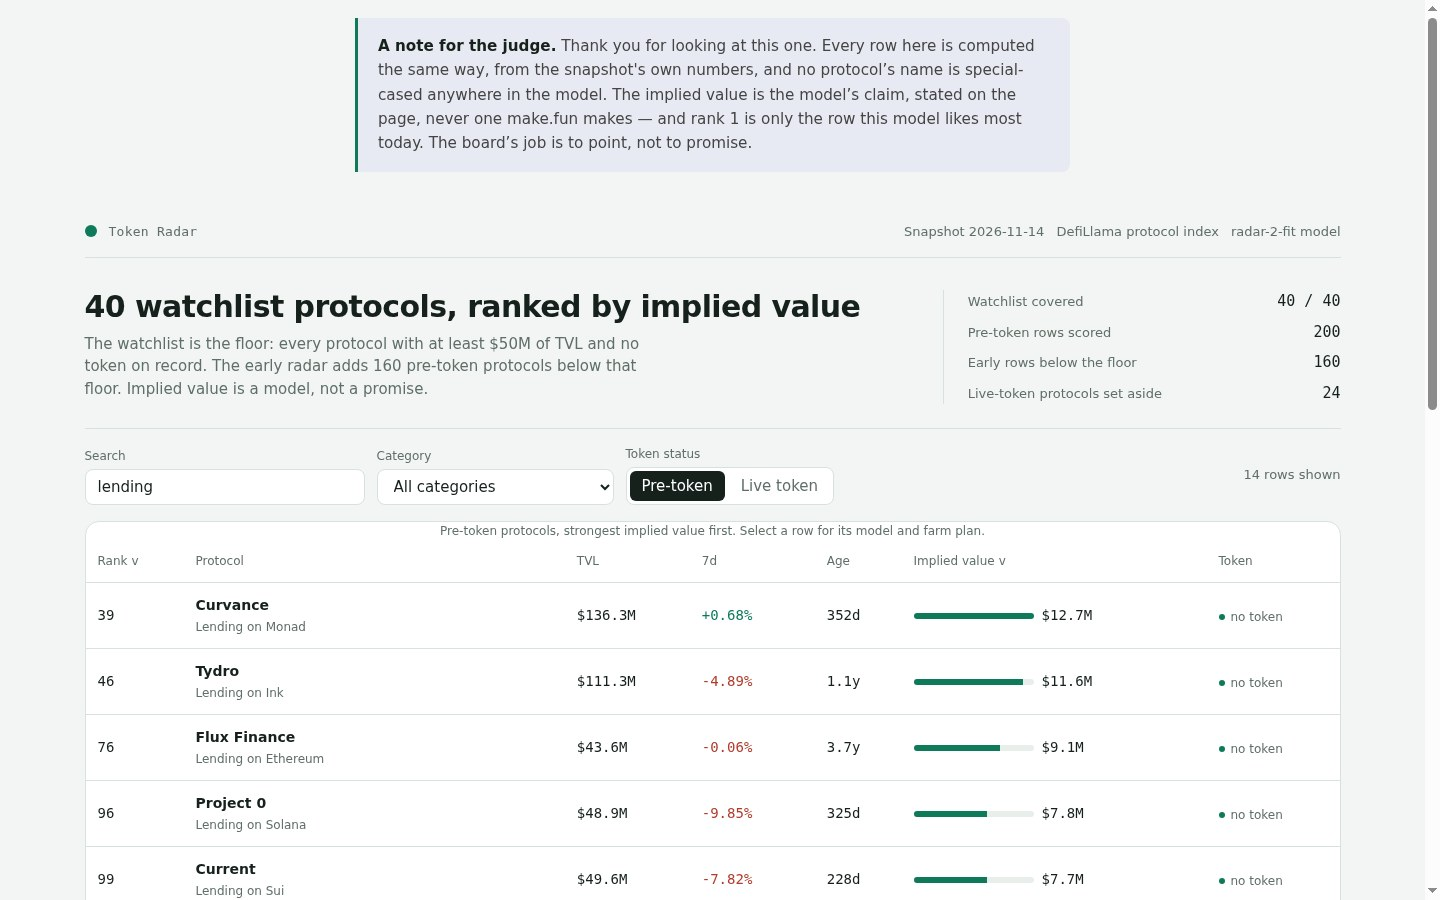
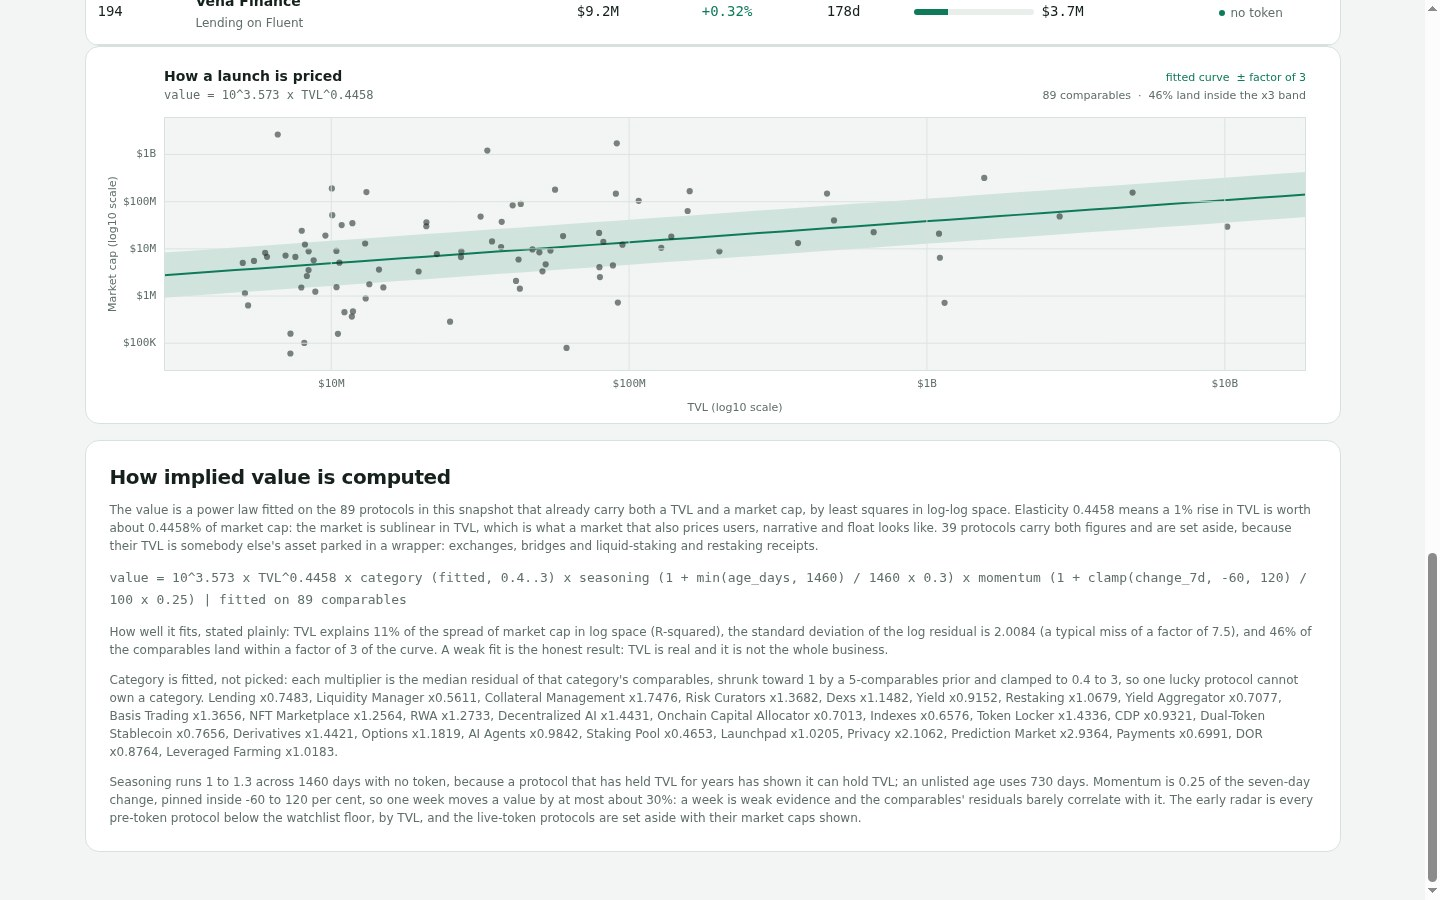
entry: hand-drawn log-log scatter of the fit, screenshots in step with it

diff --git a/dashboard/app.js b/dashboard/app.js
@@ -5,8 +5,9 @@
   builds the whole board from it: a masthead carrying the snapshot date and the model
   version, the summary counts that say how many protocols were scored and how many were set
   aside, a search box and a category filter over the rows, a sortable table of the ranked
-  pre-token protocols, a second table for the protocols that already trade, a short
-  statement of the pricing model, and a side drawer that opens on any row to show how that
+  pre-token protocols, a second table for the protocols that already trade, a canvas chart of the
+  fitted power law against every comparable, a short statement of the pricing model,
+  and a side drawer that opens on any row to show how that
   row was priced together with a plain farm plan for it.
 
   The only arithmetic performed here is the model itself, recomputed from the row's own
@@ -466,6 +467,296 @@
           node('tbody', null, radar.live.map(liveRow)))));
   }
 
+
+  /* ── the fitted curve, drawn so a reader can see the fit rather than take it on trust ── */
+
+  /*
+    A log-log scatter of every comparable the snapshot priced (TVL on x, market cap on y),
+    the fitted line from this board's own intercept and elasticity, and a band a factor of 3
+    either side of that line. No chart library: the dots, the line and the axes are stroked
+    onto a <canvas> by hand. Missing data, a missing canvas, or a throw all draw nothing, so
+    a bad drawing surface cannot take the table down with it.
+  */
+
+  function log10(value) {
+    return Math.log(value) / Math.LN10;
+  }
+
+  function comparablePoints() {
+    const points = [];
+    function add(tvl, mcap) {
+      if (!isNumber(tvl) || tvl <= 0 || !isNumber(mcap) || mcap <= 0) return;
+      points.push({ x: log10(tvl), y: log10(mcap) });
+    }
+    const packed = radar.comparables_points;
+    if (Array.isArray(packed) && packed.length) {
+      packed.forEach(function (row) {
+        if (row && typeof row === 'object') add(row.tvl_usd, row.mcap_usd);
+      });
+      return points;
+    }
+    (radar.live || []).forEach(function (row) { add(row.tvl_usd, row.mcap_usd); });
+    (radar.rows || []).forEach(function (row) { add(row.tvl_usd, row.mcap_usd); });
+    return points;
+  }
+
+  function lineLog10(logTvl) {
+    return model.intercept_log10 + model.elasticity * logTvl;
+  }
+
+  function axisMoney(logValue) {
+    const value = Math.pow(10, logValue);
+    if (!isFinite(value) || value <= 0) return '';
+    if (value >= 1e12) return '$' + Math.round(value / 1e12) + 'T';
+    if (value >= 1e9) return '$' + Math.round(value / 1e9) + 'B';
+    if (value >= 1e6) return '$' + Math.round(value / 1e6) + 'M';
+    if (value >= 1e3) return '$' + Math.round(value / 1e3) + 'K';
+    return '$' + Math.round(value);
+  }
+
+  function logTicks(min, max) {
+    const ticks = [];
+    if (!(isNumber(min) && isNumber(max))) return ticks;
+    if (max < min) { const swap = min; min = max; max = swap; }
+    const start = Math.floor(min);
+    const end = Math.ceil(max);
+    for (let n = start; n <= end; n++) {
+      if (n >= min - 1e-9 && n <= max + 1e-9) ticks.push(n);
+    }
+    if (ticks.length === 0) ticks.push(Math.round((min + max) / 2));
+    return ticks;
+  }
+
+  function padDomain(min, max) {
+    if (!(isNumber(min) && isNumber(max))) return [0, 1];
+    if (min === max) return [min - 0.5, max + 0.5];
+    const span = max - min;
+    return [min - span * 0.08, max + span * 0.08];
+  }
+
+  function readColour(name, fallback) {
+    try {
+      const value = getComputedStyle(document.documentElement).getPropertyValue(name).trim();
+      return value || fallback;
+    } catch (err) {
+      return fallback;
+    }
+  }
+
+  function drawFitChart(canvas) {
+    try {
+    if (!canvas || typeof canvas.getContext !== 'function') return false;
+    if (!model || !isNumber(model.intercept_log10) || !isNumber(model.elasticity)) return false;
+
+    const points = comparablePoints();
+    if (!points.length) return false;
+
+    const ctx = canvas.getContext('2d');
+    if (!ctx) return false;
+
+    const cssWidth = Math.max(280, Math.round(
+      canvas.clientWidth
+      || (canvas.parentElement && canvas.parentElement.clientWidth)
+      || 840
+    ));
+    const cssHeight = Math.max(220, Math.round(canvas.clientHeight || 360));
+    const dpr = Math.min(2, (typeof window !== 'undefined' && window.devicePixelRatio) || 1);
+    canvas.width = Math.round(cssWidth * dpr);
+    canvas.height = Math.round(cssHeight * dpr);
+    ctx.setTransform(dpr, 0, 0, dpr, 0, 0);
+    ctx.clearRect(0, 0, cssWidth, cssHeight);
+
+    const margin = { top: 58, right: 18, bottom: 48, left: 62 };
+    const plotW = cssWidth - margin.left - margin.right;
+    const plotH = cssHeight - margin.top - margin.bottom;
+    if (plotW < 80 || plotH < 80) return false;
+
+    let xMin = points[0].x;
+    let xMax = points[0].x;
+    let yMin = points[0].y;
+    let yMax = points[0].y;
+    points.forEach(function (p) {
+      if (p.x < xMin) xMin = p.x;
+      if (p.x > xMax) xMax = p.x;
+      if (p.y < yMin) yMin = p.y;
+      if (p.y > yMax) yMax = p.y;
+    });
+
+    const band = log10(3);
+    const yLineLo = Math.min(lineLog10(xMin), lineLog10(xMax));
+    const yLineHi = Math.max(lineLog10(xMin), lineLog10(xMax));
+    yMin = Math.min(yMin, yLineLo - band);
+    yMax = Math.max(yMax, yLineHi + band);
+
+    const xPad = padDomain(xMin, xMax);
+    const yPad = padDomain(yMin, yMax);
+    xMin = xPad[0];
+    xMax = xPad[1];
+    yMin = yPad[0];
+    yMax = yPad[1];
+    if (xMax === xMin) xMax = xMin + 1;
+    if (yMax === yMin) yMax = yMin + 1;
+
+    function xOf(logTvl) {
+      return margin.left + ((logTvl - xMin) / (xMax - xMin)) * plotW;
+    }
+    function yOf(logVal) {
+      return margin.top + plotH - ((logVal - yMin) / (yMax - yMin)) * plotH;
+    }
+
+    const ink = readColour('--ink', '#16211c');
+    const muted = readColour('--muted', '#5f6f67');
+    const border = readColour('--border', '#d8e2dc');
+    const accent = readColour('--accent', '#0f7a5a');
+    const canvasBg = readColour('--canvas', '#f2f5f3');
+    const surface = readColour('--surface', '#ffffff');
+
+    ctx.fillStyle = surface;
+    ctx.fillRect(0, 0, cssWidth, cssHeight);
+
+    ctx.fillStyle = canvasBg;
+    ctx.fillRect(margin.left, margin.top, plotW, plotH);
+
+    ctx.save();
+    ctx.beginPath();
+    ctx.rect(margin.left, margin.top, plotW, plotH);
+    ctx.clip();
+
+    const steps = 48;
+    ctx.beginPath();
+    for (let i = 0; i <= steps; i++) {
+      const x = xMin + (i / steps) * (xMax - xMin);
+      const y = yOf(lineLog10(x) + band);
+      if (i === 0) ctx.moveTo(xOf(x), y);
+      else ctx.lineTo(xOf(x), y);
+    }
+    for (let i = steps; i >= 0; i--) {
+      const x = xMin + (i / steps) * (xMax - xMin);
+      ctx.lineTo(xOf(x), yOf(lineLog10(x) - band));
+    }
+    ctx.closePath();
+    ctx.fillStyle = 'rgba(15, 122, 90, 0.14)';
+    ctx.fill();
+
+    ctx.beginPath();
+    for (let i = 0; i <= steps; i++) {
+      const x = xMin + (i / steps) * (xMax - xMin);
+      const y = yOf(lineLog10(x));
+      if (i === 0) ctx.moveTo(xOf(x), y);
+      else ctx.lineTo(xOf(x), y);
+    }
+    ctx.strokeStyle = accent;
+    ctx.lineWidth = 2;
+    ctx.stroke();
+
+    let inside = 0;
+    points.forEach(function (p) {
+      if (Math.abs(p.y - lineLog10(p.x)) <= band) inside += 1;
+      ctx.beginPath();
+      ctx.arc(xOf(p.x), yOf(p.y), 3.1, 0, Math.PI * 2);
+      ctx.fillStyle = 'rgba(22, 33, 28, 0.55)';
+      ctx.fill();
+    });
+    ctx.restore();
+
+    ctx.strokeStyle = border;
+    ctx.lineWidth = 1;
+    ctx.strokeRect(margin.left + 0.5, margin.top + 0.5, plotW - 1, plotH - 1);
+
+    ctx.fillStyle = muted;
+    ctx.font = '11px ui-monospace, "SF Mono", Menlo, monospace';
+    ctx.textAlign = 'center';
+    ctx.textBaseline = 'top';
+    logTicks(xMin, xMax).forEach(function (tick) {
+      const x = xOf(tick);
+      if (x < margin.left - 2 || x > margin.left + plotW + 2) return;
+      ctx.strokeStyle = 'rgba(216, 226, 220, 0.9)';
+      ctx.beginPath();
+      ctx.moveTo(x, margin.top);
+      ctx.lineTo(x, margin.top + plotH);
+      ctx.stroke();
+      ctx.fillStyle = muted;
+      ctx.fillText(axisMoney(tick), x, margin.top + plotH + 8);
+    });
+
+    ctx.textAlign = 'right';
+    ctx.textBaseline = 'middle';
+    logTicks(yMin, yMax).forEach(function (tick) {
+      const y = yOf(tick);
+      if (y < margin.top - 2 || y > margin.top + plotH + 2) return;
+      ctx.strokeStyle = 'rgba(216, 226, 220, 0.9)';
+      ctx.beginPath();
+      ctx.moveTo(margin.left, y);
+      ctx.lineTo(margin.left + plotW, y);
+      ctx.stroke();
+      ctx.fillStyle = muted;
+      ctx.fillText(axisMoney(tick), margin.left - 8, y);
+    });
+
+    ctx.fillStyle = ink;
+    ctx.font = '600 14px system-ui, -apple-system, "Segoe UI", sans-serif';
+    ctx.textAlign = 'left';
+    ctx.textBaseline = 'alphabetic';
+    ctx.fillText('How a launch is priced', margin.left, 22);
+
+    const formula = 'value = 10^' + model.intercept_log10 + ' x TVL^' + model.elasticity;
+    ctx.fillStyle = muted;
+    ctx.font = '12px ui-monospace, "SF Mono", Menlo, monospace';
+    ctx.fillText(formula, margin.left, 40);
+
+    ctx.fillStyle = muted;
+    ctx.font = '11px system-ui, -apple-system, "Segoe UI", sans-serif';
+    ctx.textAlign = 'center';
+    ctx.textBaseline = 'alphabetic';
+    ctx.fillText('TVL (log10 scale)', margin.left + plotW / 2, cssHeight - 8);
+
+    ctx.save();
+    ctx.translate(14, margin.top + plotH / 2);
+    ctx.rotate(-Math.PI / 2);
+    ctx.fillText('Market cap (log10 scale)', 0, 0);
+    ctx.restore();
+
+    const share = inside / points.length;
+    const note = points.length + ' comparables  ·  ' + Math.round(share * 100) + '% land inside the x3 band';
+    ctx.fillStyle = muted;
+    ctx.font = '11px system-ui, -apple-system, "Segoe UI", sans-serif';
+    ctx.textAlign = 'right';
+    ctx.textBaseline = 'alphabetic';
+    ctx.fillText(note, margin.left + plotW, 40);
+
+    ctx.textAlign = 'right';
+    ctx.fillStyle = accent;
+    ctx.font = '11px system-ui, -apple-system, "Segoe UI", sans-serif';
+    ctx.fillText('fitted curve  ± factor of 3', margin.left + plotW, 22);
+
+    return true;
+    } catch (err) {
+      return false;
+    }
+  }
+
+  function chartCard() {
+    try {
+      if (!model || !isNumber(model.intercept_log10) || !isNumber(model.elasticity)) return null;
+      if (!comparablePoints().length) return null;
+      const canvas = node('canvas', {
+        class: 'fit-chart',
+        role: 'img',
+        'aria-label': 'Log-log scatter of already-priced protocols with the fitted power-law curve and a factor-of-3 band'
+      });
+      return node('div', { class: 'chart-card' }, canvas);
+    } catch (err) {
+      return null;
+    }
+  }
+
+  function paintChart(card) {
+    if (!card) return;
+    const canvas = card.querySelector && card.querySelector('canvas');
+    if (!canvas) return;
+    try { drawFitChart(canvas); } catch (err) {}
+  }
+
   /* ── the statement of the model ──────────────────────────────────────── */
 
   function modelPanel() {
@@ -606,7 +897,14 @@
     resultsHost.appendChild(view.tab === 'pre-token' ? boardPanel() : livePanel());
 
     modelHost.textContent = '';
-    if (view.tab === 'pre-token') modelHost.appendChild(modelPanel());
+    if (view.tab === 'pre-token') {
+      const chart = chartCard();
+      if (chart) {
+        modelHost.appendChild(chart);
+        paintChart(chart);
+      }
+      modelHost.appendChild(modelPanel());
+    }
 
     countLabel.textContent = view.tab === 'pre-token'
       ? matching().length + ' rows shown'
@@ -627,5 +925,12 @@
 
   window.addEventListener('keydown', function (event) {
     if (event.key === 'Escape' && drawer.open) drawer.close();
+  });
+
+  window.addEventListener('resize', function () {
+    try {
+      const card = modelHost.querySelector && modelHost.querySelector('.chart-card');
+      if (card) paintChart(card);
+    } catch (err) {}
   });
 })();

diff --git a/dashboard/app.css b/dashboard/app.css
@@ -98,6 +98,15 @@ tbody tr[data-selected="true"] { background: color-mix(in srgb, var(--accent) 8%
 .status::before { content: ""; width: 6px; height: 6px; border-radius: 50%; background: var(--accent); }
 
 .model { margin-top: var(--step-4); padding: var(--step-5); display: grid; gap: var(--step-3); }
+.chart-card {
+  margin: 0 0 var(--step-4);
+  background: var(--surface);
+  border: 1px solid var(--border);
+  border-radius: var(--radius-panel);
+  padding: var(--step-3) var(--step-4) 4px;
+  overflow: hidden;
+}
+.fit-chart { display: block; width: 100%; height: 360px; }
 .formula { font-family: var(--font-num); font-size: 13px; line-height: 1.7; color: var(--muted); overflow-wrap: anywhere; }
 .empty { padding: var(--step-7) var(--step-5); text-align: center; display: grid; gap: var(--step-3); justify-items: center; }
 .empty p { color: var(--muted); }
@@ -133,6 +142,7 @@ tbody tr[data-selected="true"] { background: color-mix(in srgb, var(--accent) 8%
   .lede { grid-template-columns: 1fr; gap: var(--step-4); }
   .facts { border-left: 0; border-top: 1px solid var(--border); padding-left: 0; padding-top: var(--step-4); }
   .field input { min-width: 0; width: 100%; }
+  .fit-chart { height: 280px; }
 }
 @media (prefers-reduced-motion: reduce) {
   *, *::before, *::after { transition-duration: 0.01ms !important; animation-duration: 0.01ms !important; animation-iteration-count: 1 !important; }

diff --git a/lib/model.ts b/lib/model.ts
@@ -204,6 +204,8 @@ export interface RadarData {
   live_size: number;
   rows: RadarRow[];
   live: LiveRow[];
+  /** TVL and market cap of every comparable the curve was fitted on, for the page's log-log chart. */
+  comparables_points: { tvl_usd: number; mcap_usd: number }[];
 }
 
 /** The headline figures main.ts prints and the page shows above the table. */
@@ -827,6 +829,10 @@ export function buildRadar(snapshot: Snapshot, model?: ModelConstants): { board:
     live_size: live.length,
     rows: board.map(radarRow),
     live,
+    comparables_points: comparables(snapshot).map((p) => ({
+      tvl_usd: p.tvl_usd,
+      mcap_usd: p.mcap_usd as number,
+    })),
   };
   return { board, radar };
 }
